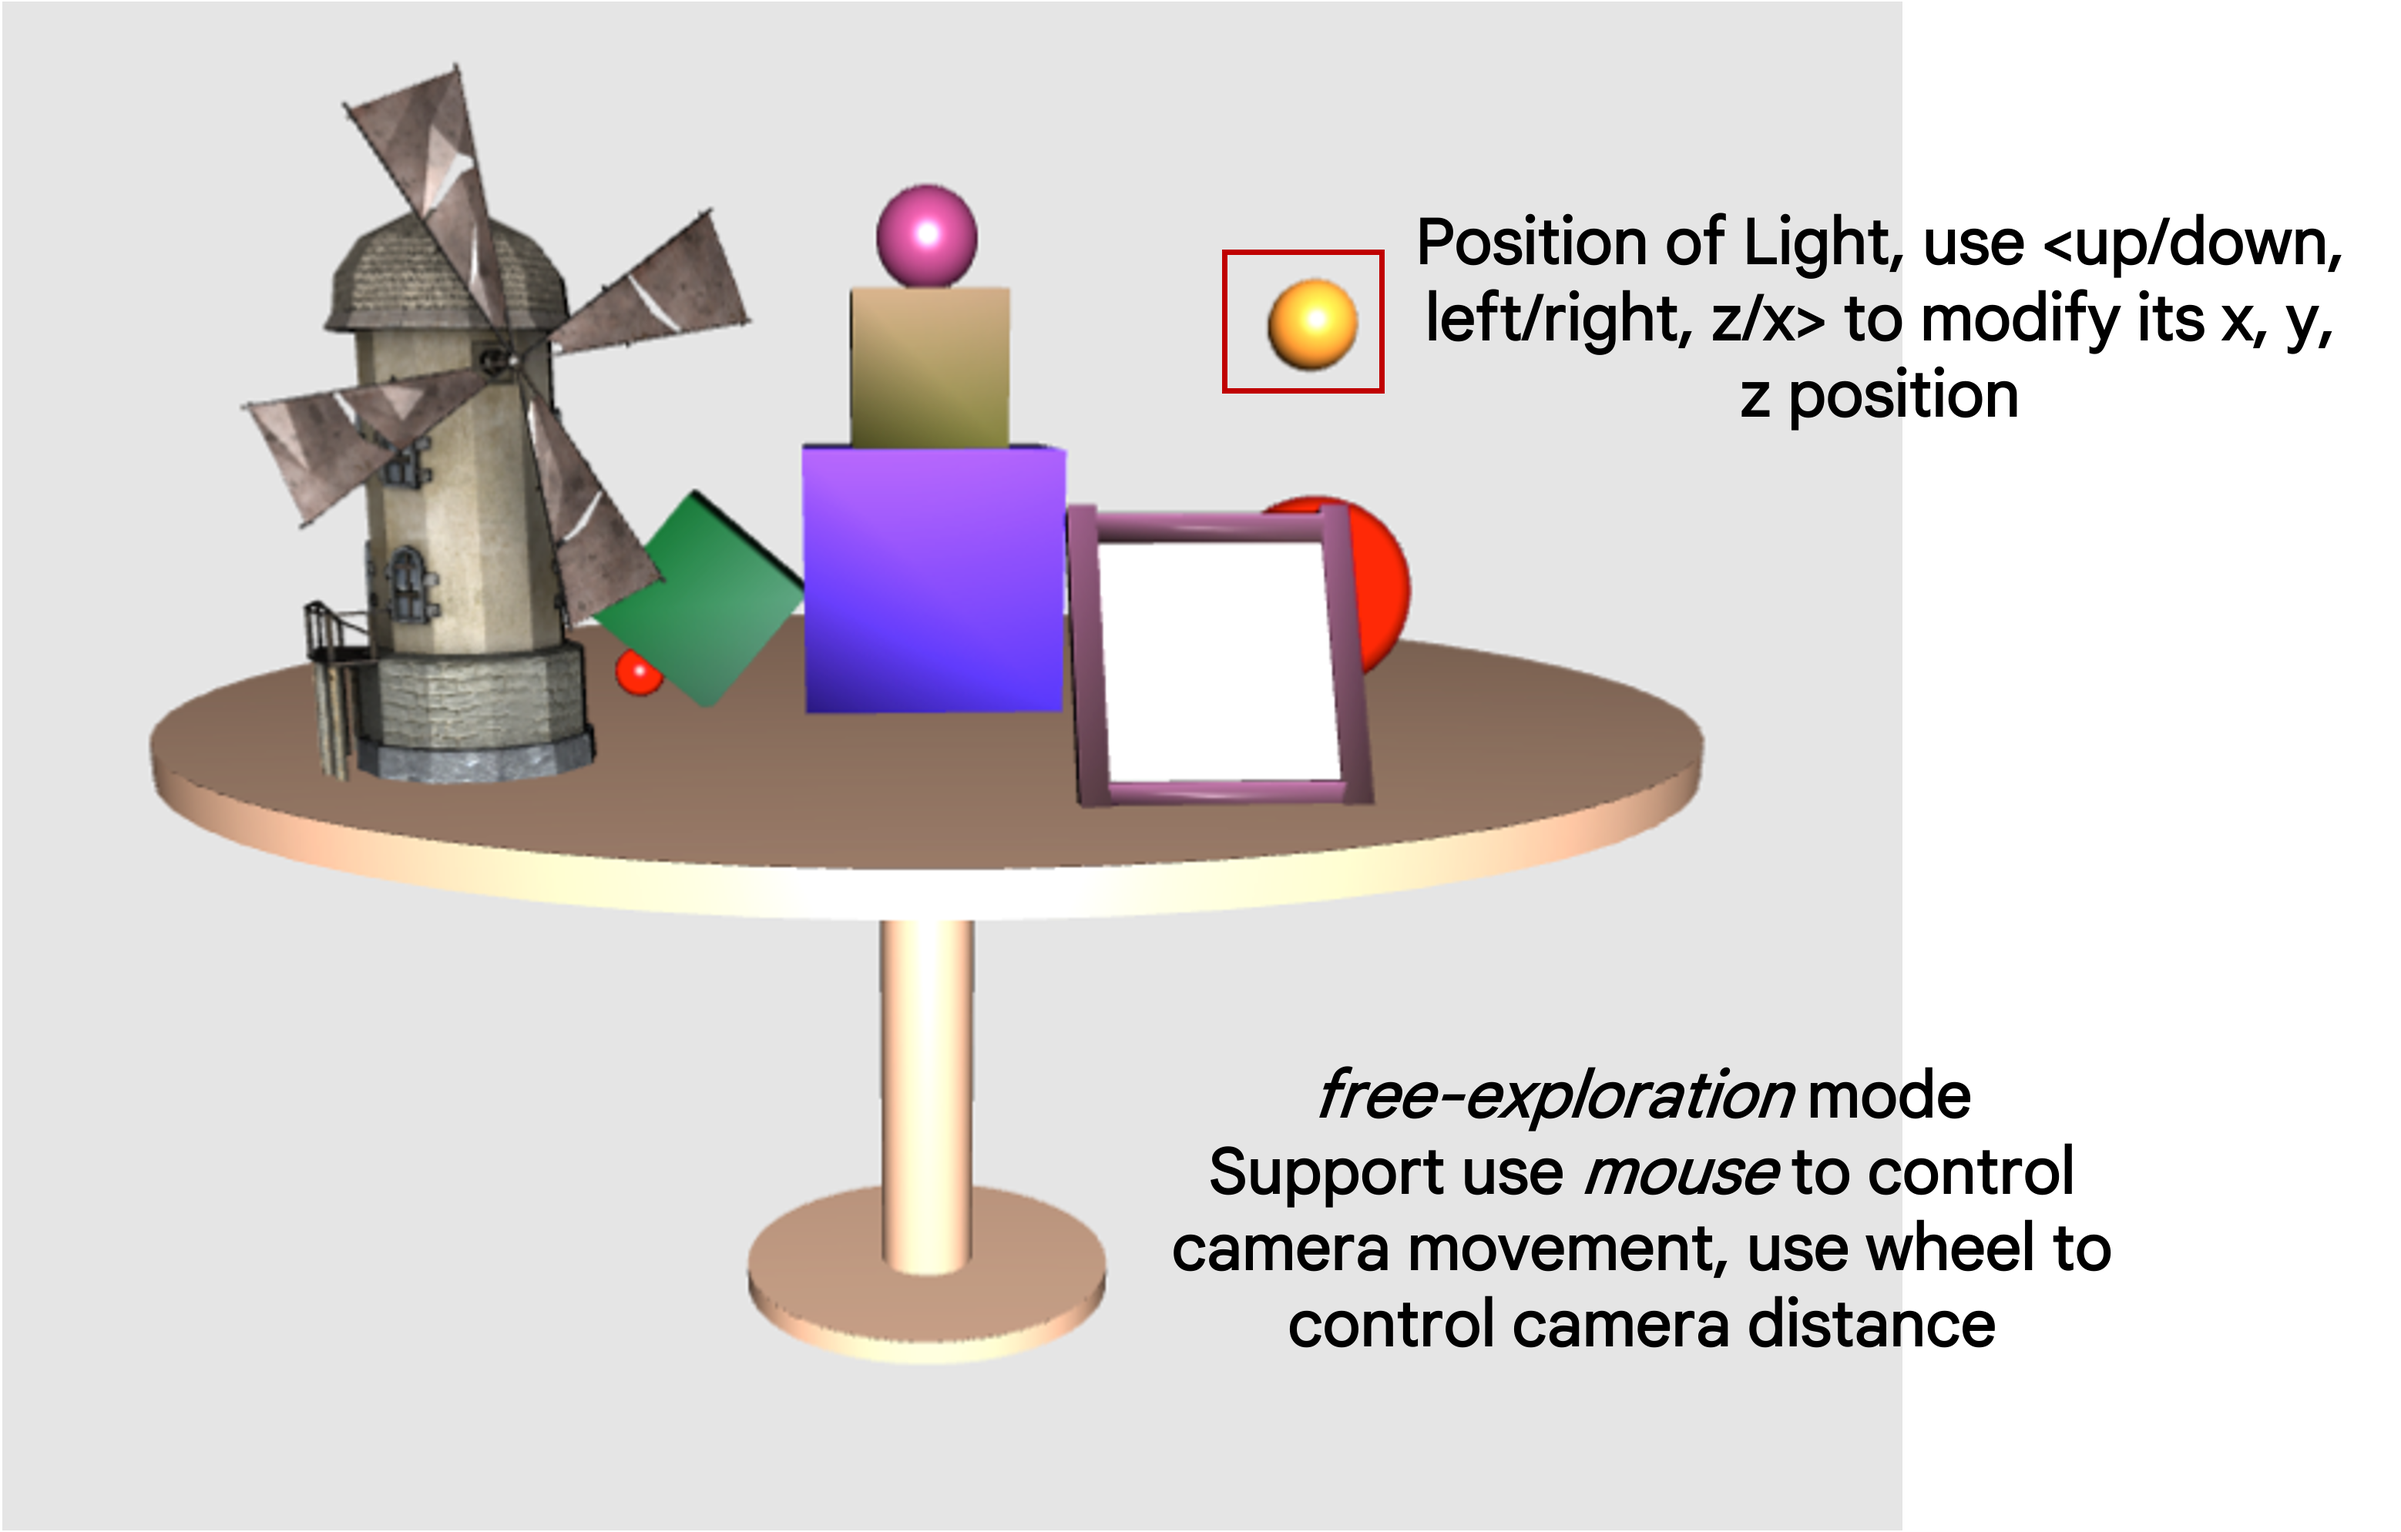
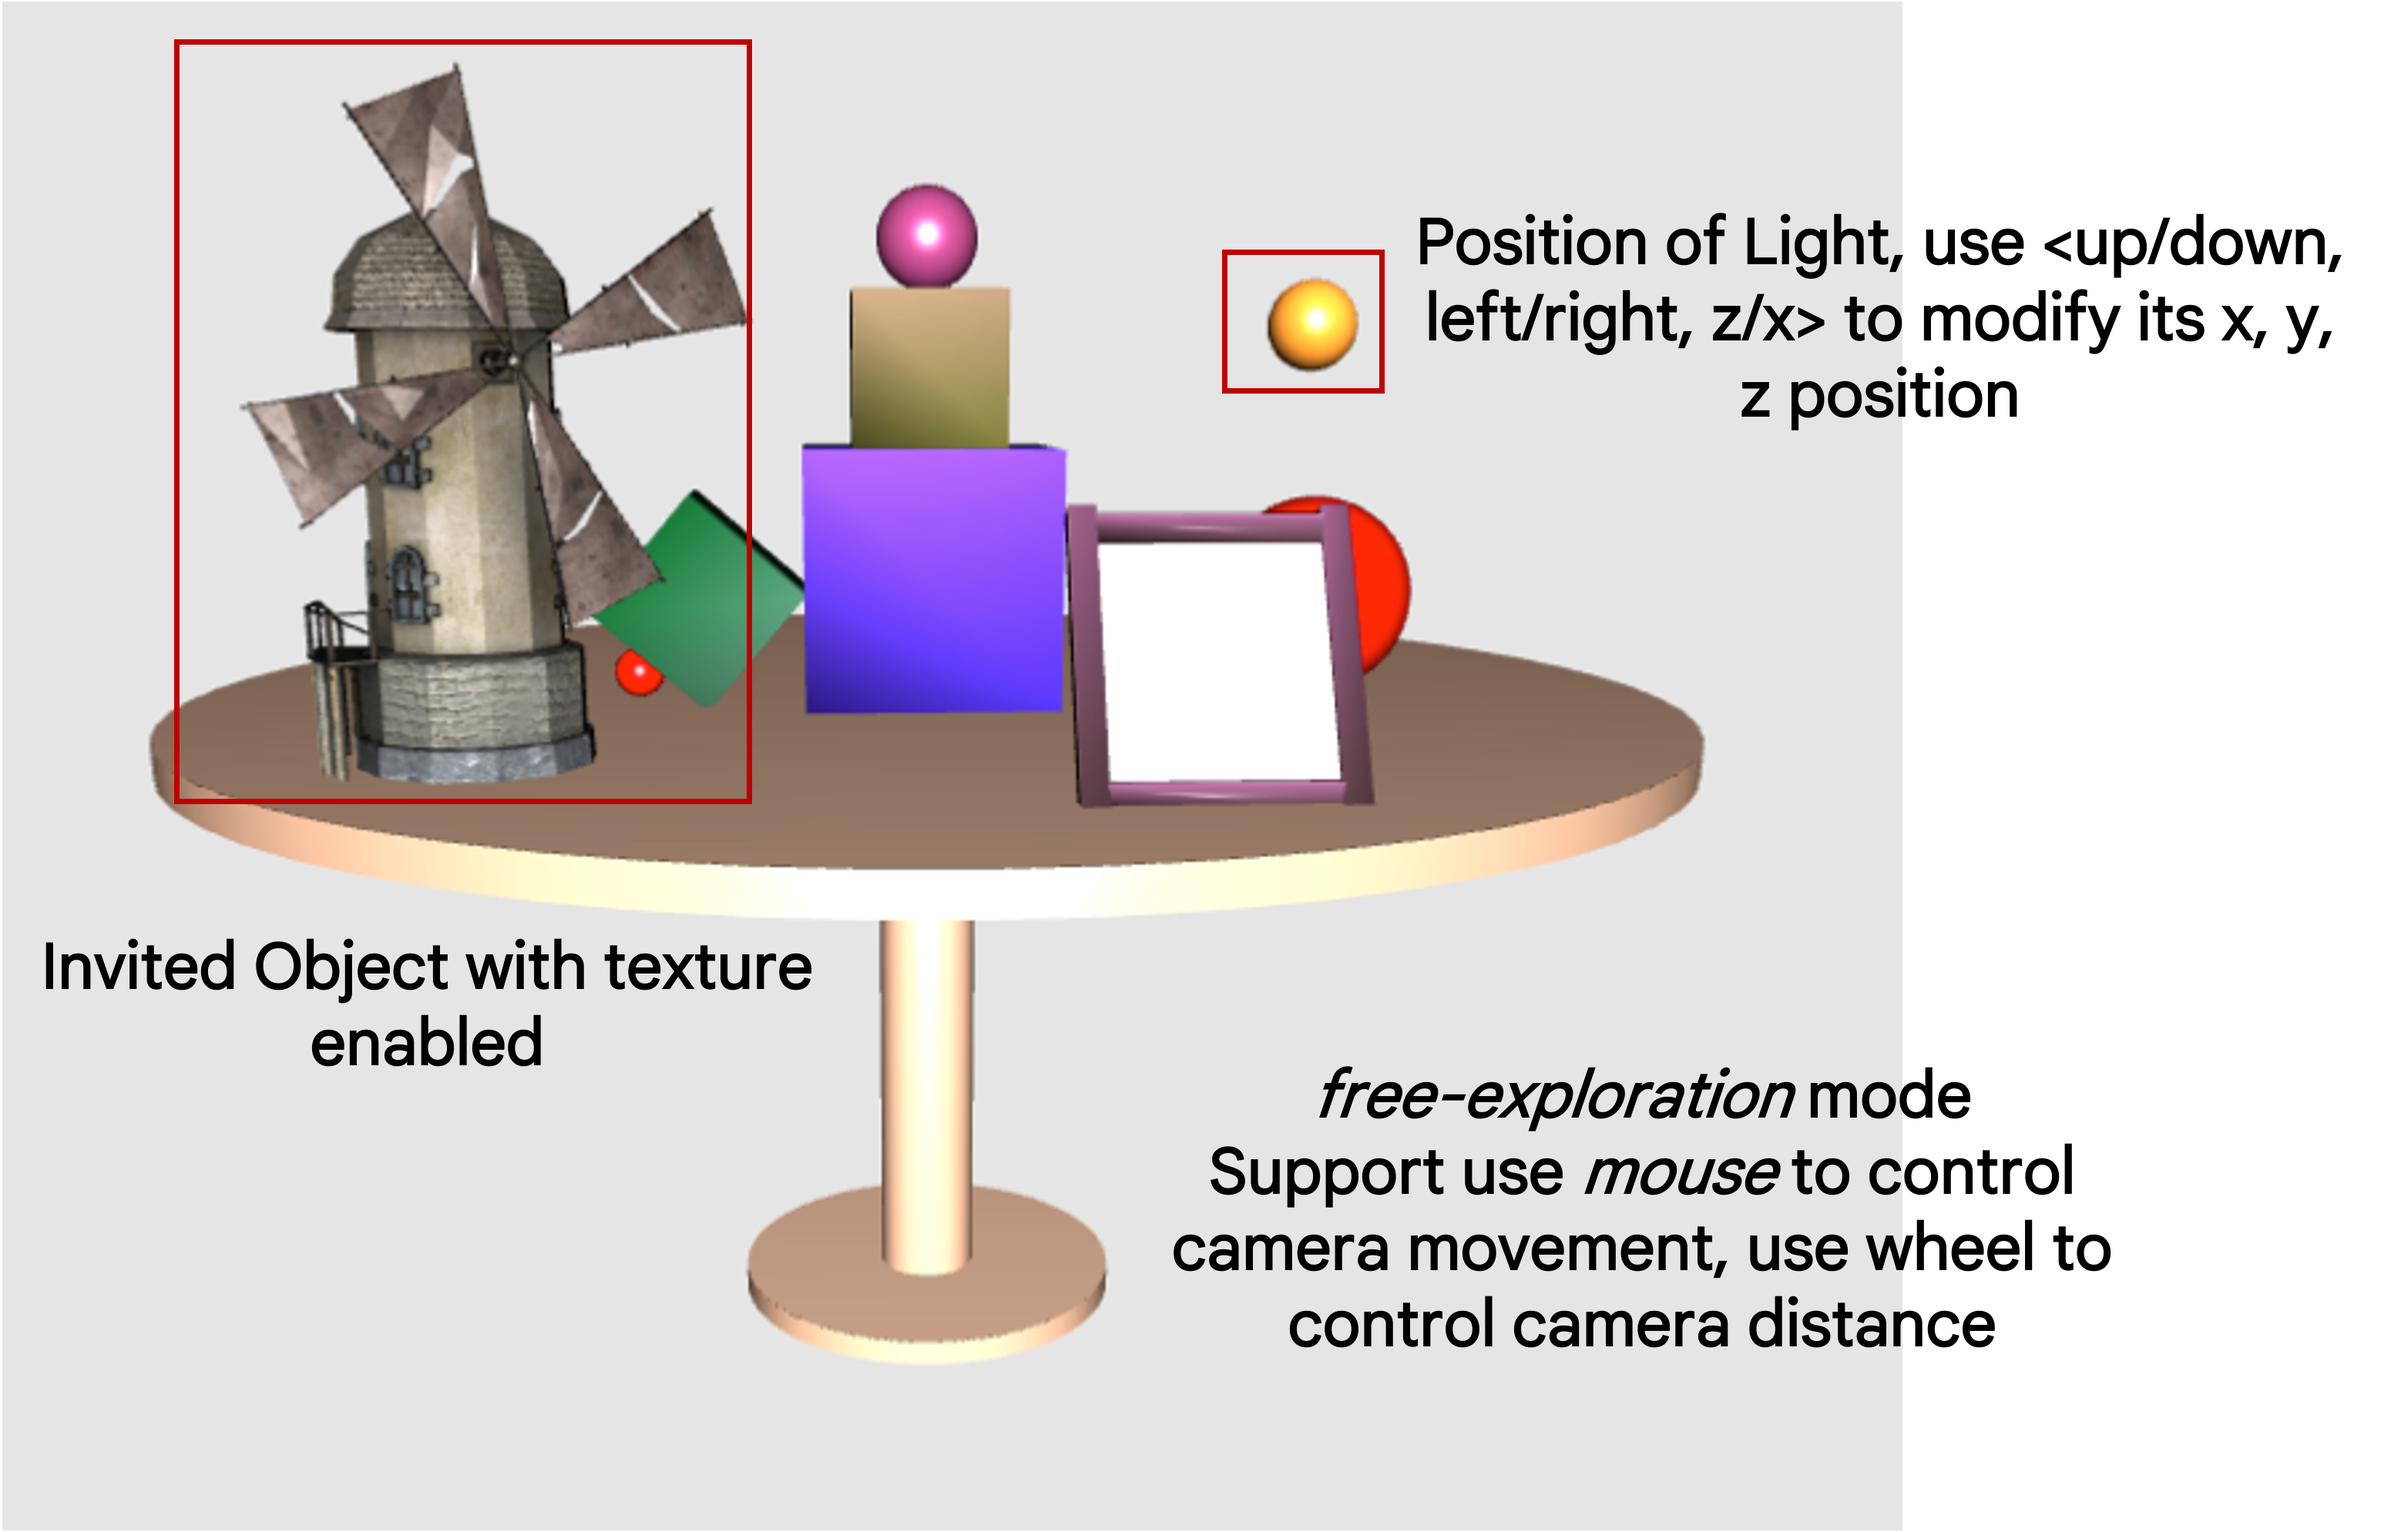
update image

Changed region(s): [[0.0, 0.5923, 0.3424, 0.7169], [0.0623, 0.4987, 0.3113, 0.5299], [0.0934, 0.0, 0.3113, 0.0312]]

diff --git a/README.html b/README.html
@@ -24,8 +24,8 @@
     
       <div class="crossnote markdown-preview  ">
       
-<h2 align="center">CSE5542-RTRendering Lab 3</h2>
-<p><img src="./assets/lab3.png" alt="image"></p>
+<h2 align="center">CSE5542-RTRendering Lab 4</h2>
+<p><img src="./assets/lab4.png" alt="image"></p>
 <h3 id="content">Content </h3>
 <ul>
 <li>
@@ -33,6 +33,9 @@
 </li>
 <li>
 <p>Codebase: <a href="https://github.com/RyanQ96/CSE5542-RTRendering">https://github.com/RyanQ96/CSE5542-RTRendering</a></p>
+</li>
+<li>
+<p>Additional Object invited from <a href="https://webglfundamentals.org/webgl/resources/models/windmill/windmill.obj"> here!</a></p>
 </li>
 <li>
 <p>Framework References:</p>
@@ -47,7 +50,7 @@
 <li><code>git clone <a href="https://github.com/RyanQ96/CSE5542-RTRendering.git">https://github.com/RyanQ96/CSE5542-RTRendering.git</a></code></li>
 <li><code>npm install</code> (make sure npm is installed on your local machine)</li>
 <li><code>cd 5542-codebase</code></li>
-<li><code>git checkout lab3</code></li>
+<li><code>git checkout lab4</code></li>
 <li><code>npm run dev</code></li>
 </ol>
 </li>
@@ -68,12 +71,14 @@
 <li><code>shaderUtils.ts</code>: utility functions to initialize shaders</li>
 <li><a href=""><code style="color: green">matrix.ts</code>: matrix utility functions,including creating projection, translation, rotation matrix, their inverse and also matrix and vector multiplication operations.</a></li>
 <li><a href=""><code style="color: green">hierarchymodel.ts</code>: hierarchical model, including <code>HObj</code>class, its children class <code>Global</code> and each one of the shapes <code>Sphere</code>, <code>Cylinder</code>, <code>Cube</code> el al.</a></li>
+<li><a href=""><code style="color: green">obj.ts</code>: class extends HObj, hierarchical model, including <code>OBJGeneral</code>class, its a generic class for <code>.obj</code> object and support rendering vertex shader, fragment shader and also texture.</a></li>
+<li><a href=""><code style="color: green">objUtils.ts</code> Utility functions for parsing OBJ files. Borrowed from https://webglfundamentals.org/webgl/webgl-load-obj-w-mtl-w-normal-maps.html.</a></li>
 </ul>
 </li>
 <li><code>core</code>: core code for eventhander and webgl rendering
 <ul>
-<li><code>setup-lab3.ts</code>: setup event listener</li>
-<li><code>drawwebgl-new.ts</code>: main rendering code</li>
+<li><code>setup-lab4.ts</code>: setup event listener</li>
+<li><code>drawwebgl-new.ts</code>: main rendering code, function <code>initShape</code> is the function that create all the shapes (table, cube, sphere, album and the invited new obj) and vertical node.</li>
 </ul>
 </li>
 </ul>
